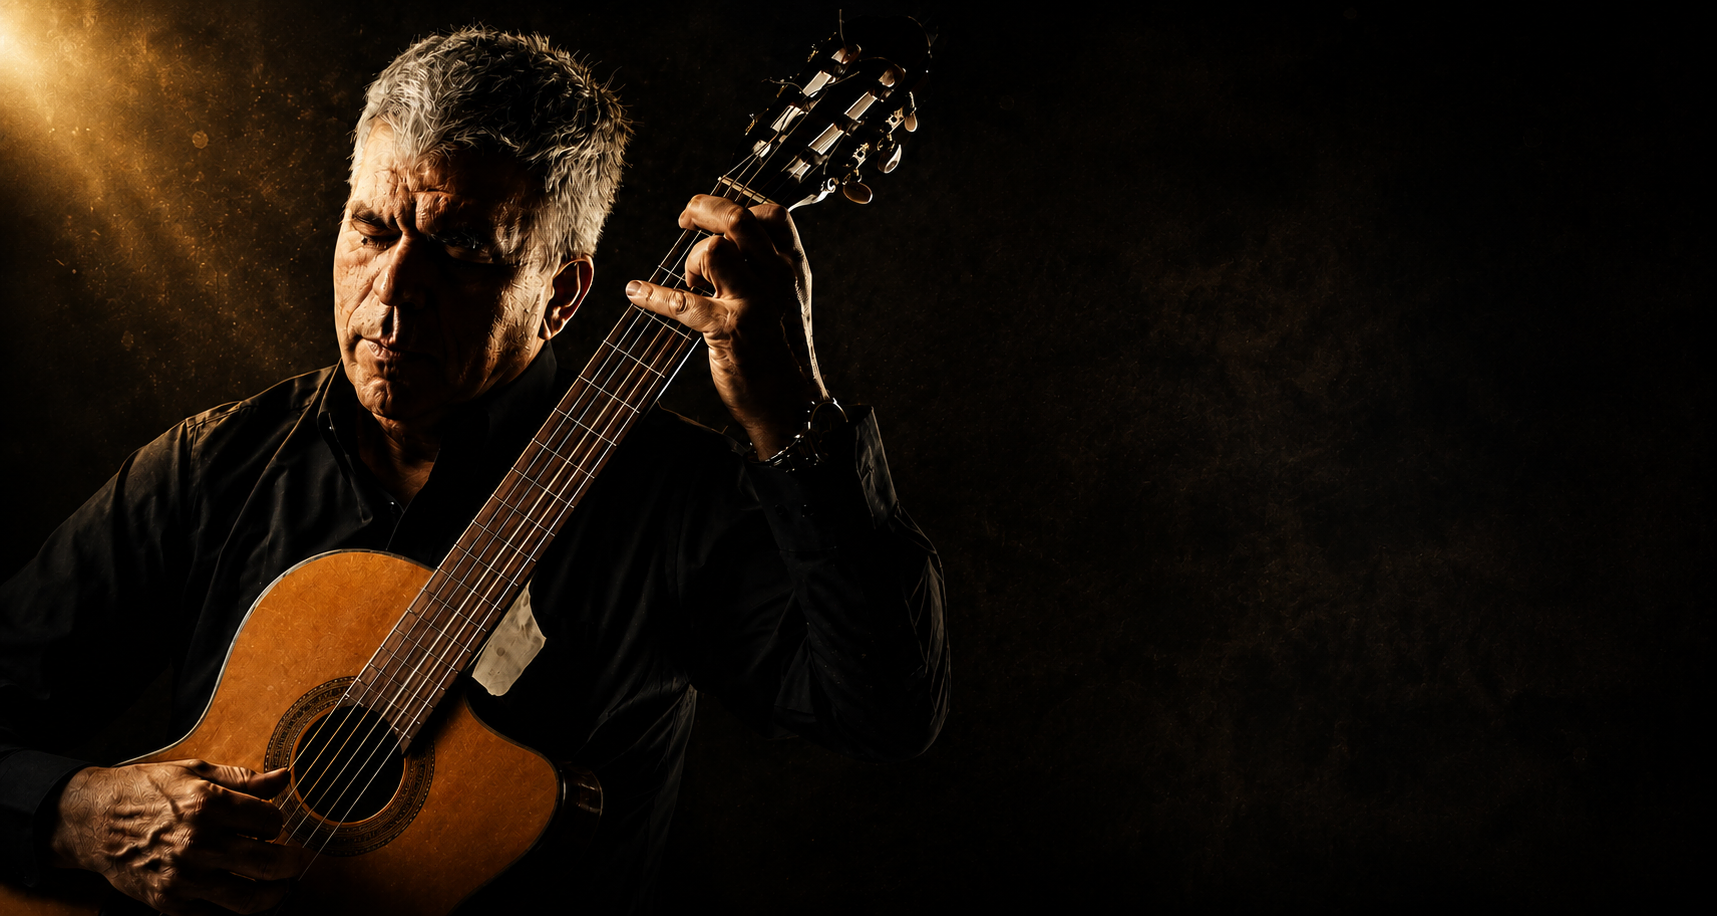
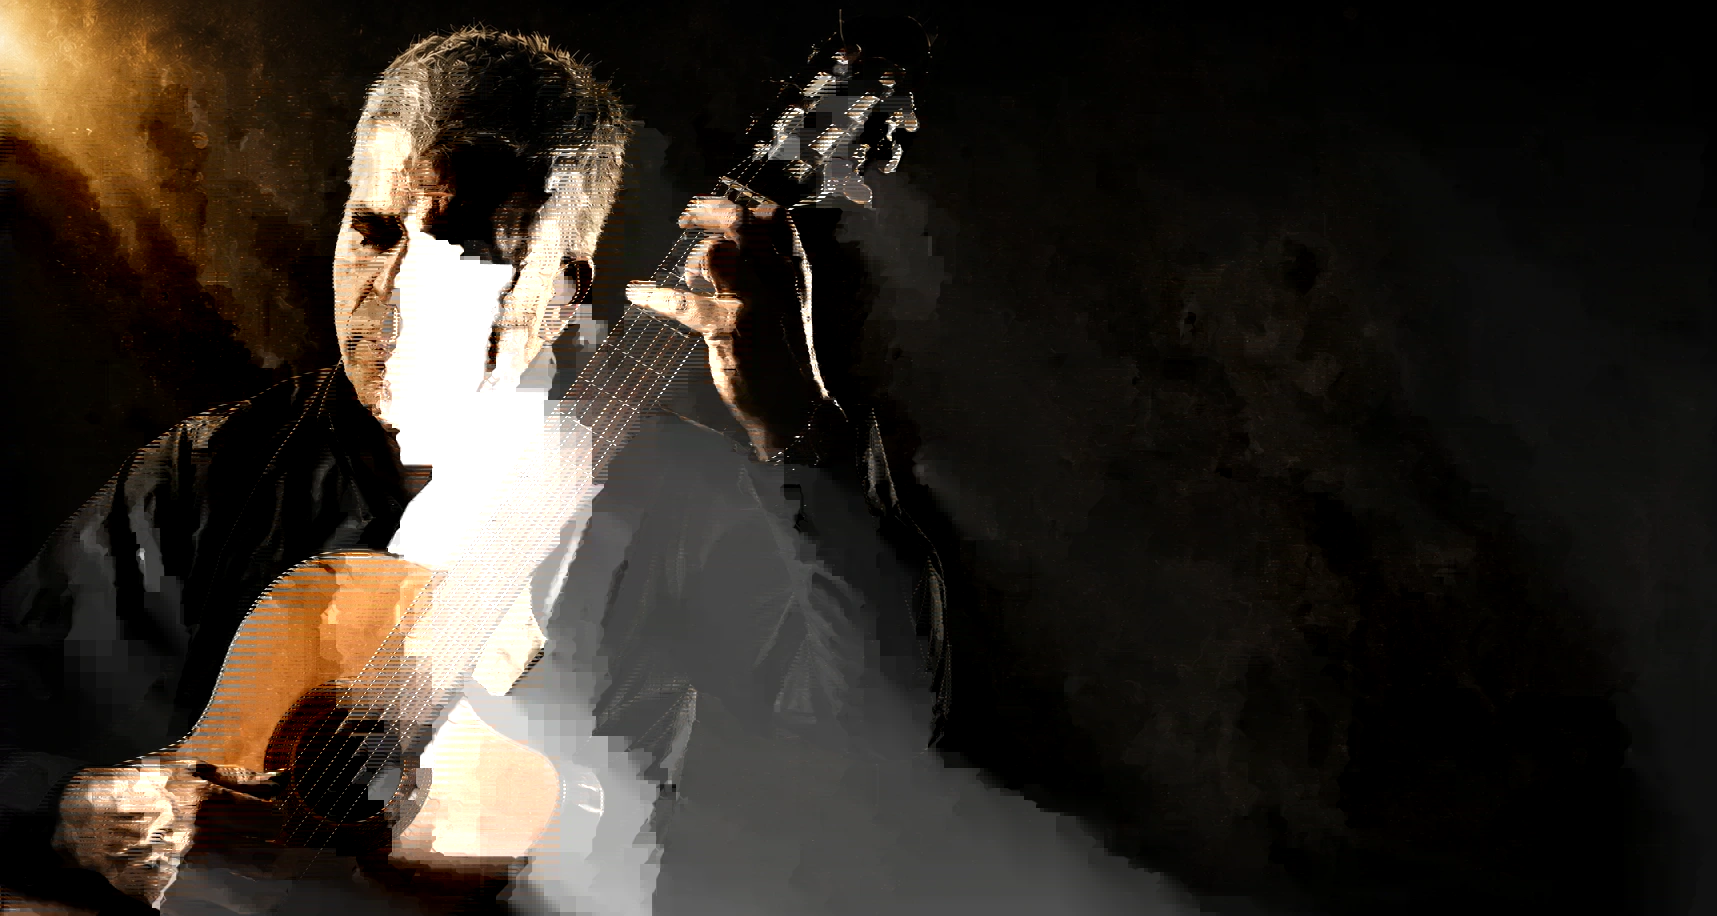
cleanup: eliminar video zombi, puppeteer, EPK route muerto, re-comprimir imagen, cache headers, ISR, arreglar TS errors
- Eliminado hero-loop-mobile-v3.mp4 (3.6MB zombi)
- Removido puppeteer-core (dependencia muerta)
- Eliminado /api/epk/route.ts (código muerto, EPK ahora es client-side jsPDF)
- Re-comprimido hero-bg.webp: 1.1MB → 246KB (q95)
- Añadido Cache-Control 1 año para /assets/video/* y /assets/images/*
- Cambiado force-dynamic a revalidate=60 (ISR, mejor performance)
- Arreglado supabase.ts Proxy (0 TS errors)

diff --git a/next.config.ts b/next.config.ts
@@ -25,6 +25,26 @@ const nextConfig: NextConfig = {
           },
         ],
       },
+      {
+        // Cache videos for 1 year (they have versioned names).
+        source: "/assets/video/:path*",
+        headers: [
+          {
+            key: "Cache-Control",
+            value: "public, max-age=31536000, immutable",
+          },
+        ],
+      },
+      {
+        // Cache static images for 1 year.
+        source: "/assets/images/:path*",
+        headers: [
+          {
+            key: "Cache-Control",
+            value: "public, max-age=31536000, immutable",
+          },
+        ],
+      },
     ];
   },
 };

diff --git a/src/lib/supabase.ts b/src/lib/supabase.ts
@@ -31,11 +31,17 @@ function getClient(): SupabaseClient {
 /**
  * Proxy that lazily creates the Supabase client on first property access.
  * This allows the module to be imported at build time without throwing.
+ * Uses `as unknown as` to satisfy TypeScript's strict type checking.
  */
-export const supabaseAdmin = new Proxy({} as SupabaseClient, {
-  get(_target, prop) {
-    const client = getClient();
-    const value = (client as never)[prop as string];
-    return typeof value === "function" ? value.bind(client) : value;
-  },
-});
+export const supabaseAdmin = new Proxy(
+  {},
+  {
+    get(_target, prop) {
+      const client = getClient();
+      const value = (client as unknown as Record<string | symbol, unknown>)[prop];
+      return typeof value === "function"
+        ? (value as (...args: unknown[]) => unknown).bind(client)
+        : value;
+    },
+  }
+) as unknown as SupabaseClient;

diff --git a/src/app/page.tsx b/src/app/page.tsx
@@ -20,9 +20,9 @@ import { AdminPanelLazy } from "@/components/admin/admin-panel-lazy";
 import { CustomCursor } from "@/components/aragal/custom-cursor";
 import { PremiumLoader } from "@/components/aragal/premium-loader";
 
-// Force dynamic rendering — the page fetches from Supabase at request time,
-// so it can't be statically generated at build time.
-export const dynamic = "force-dynamic";
+// ISR: cache the page for 60 seconds, then revalidate with fresh Supabase data.
+// This is much better than force-dynamic (no caching) for performance.
+export const revalidate = 60;
 
 export default function Home() {
   return (